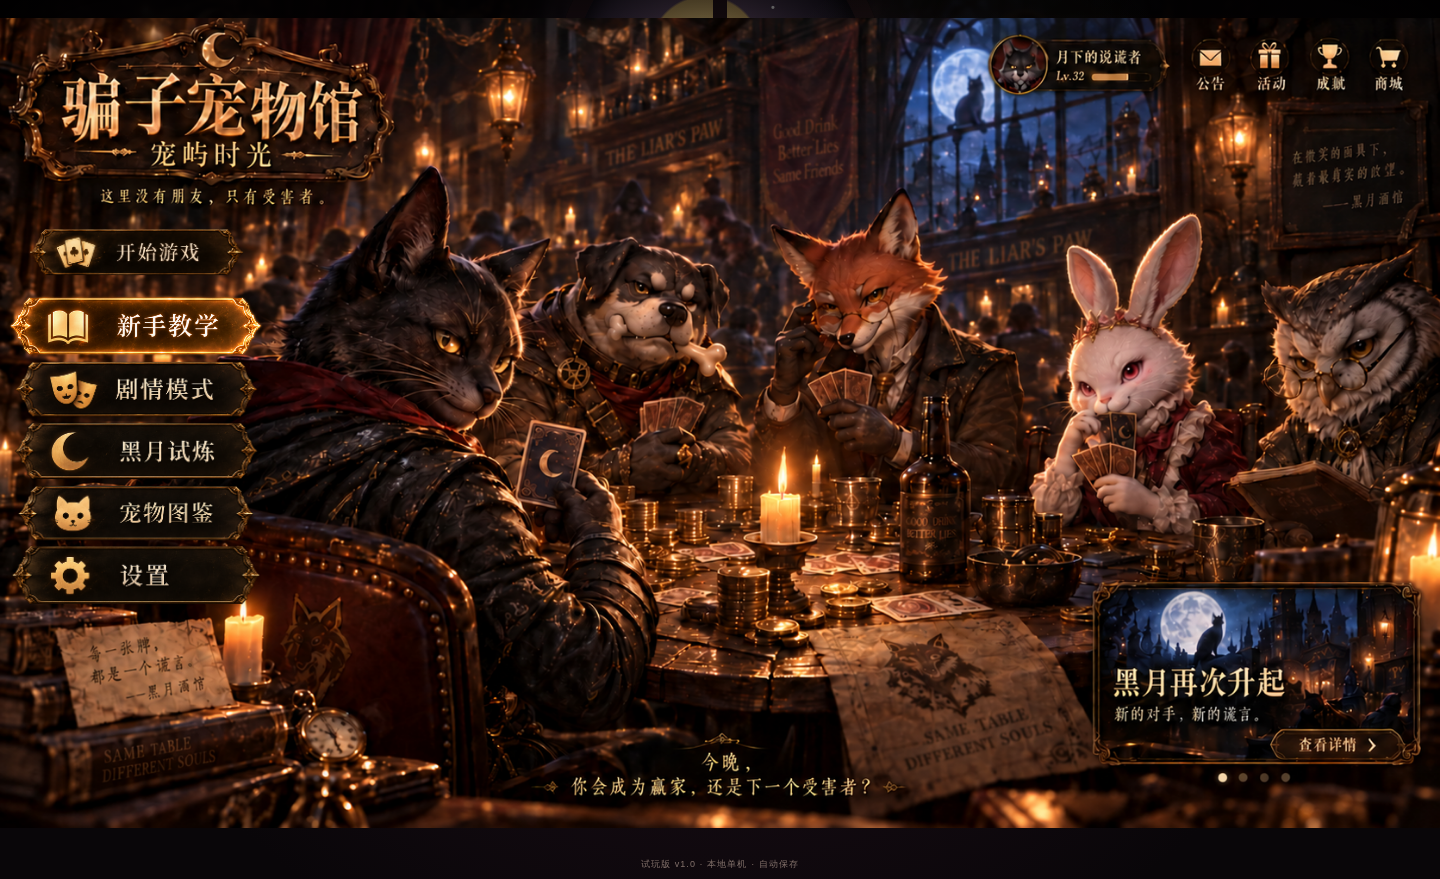
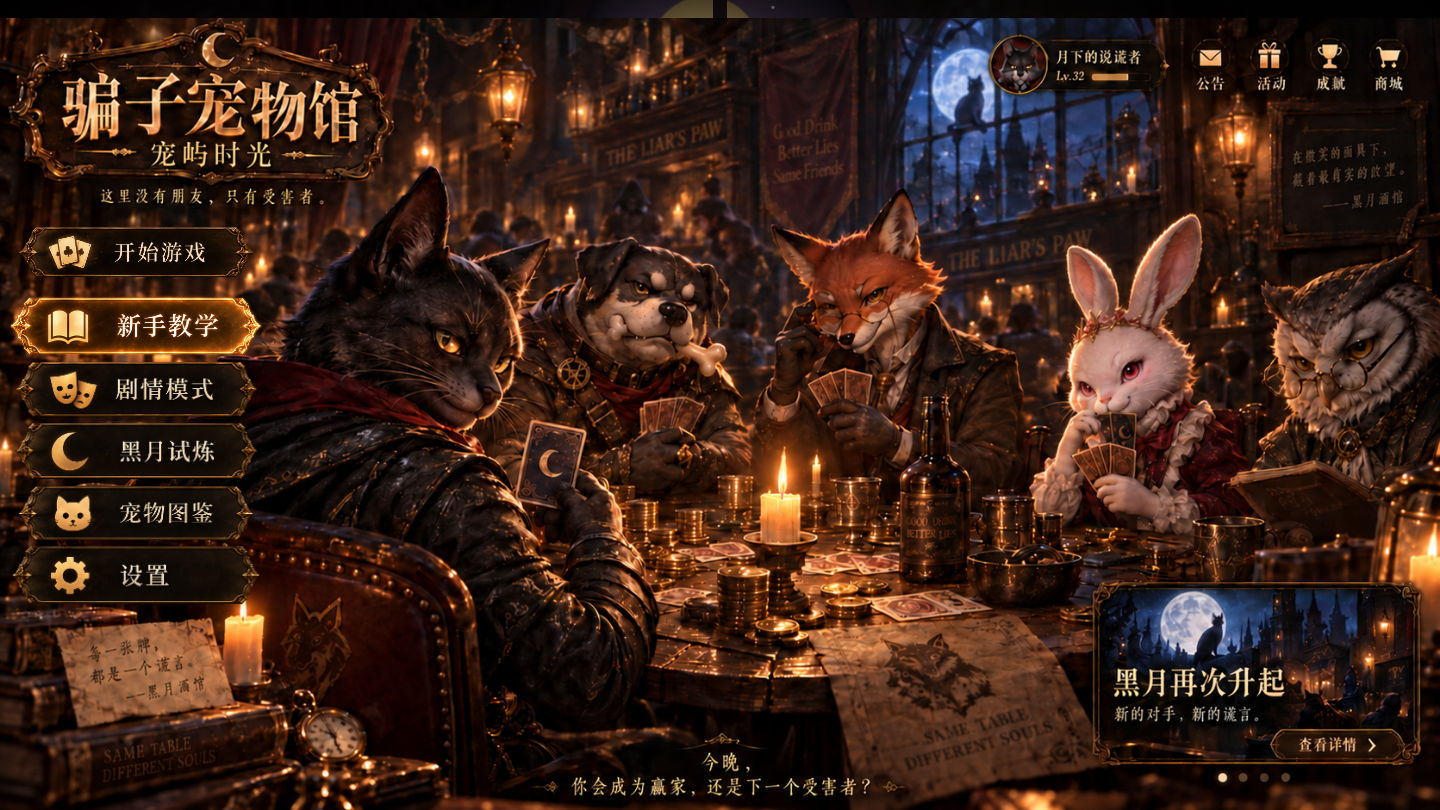
Optimize main menu button loading and sizing

diff --git a/tests/release-smoke.test.js b/tests/release-smoke.test.js
@@ -5,5 +5,6 @@ const context={document,localStorage:{getItem(){return null},setItem(){}},naviga
 const api=context.window.__BLACK_MOON__;assert(api,'缺少调试 API');assert.equal(api.PLAYERS.length,4);assert.deepEqual(Array.from(api.PLAYERS,x=>x.id),['shadow','fang','tail','snow'],'四个核心角色不正确');assert(api.PLAYERS.every(x=>x.art),'核心角色缺少正式立绘');assert.equal(api.CARDS.length,6);assert(api.CARDS.every(card=>card.rarity&&card.effect),'卡牌缺少稀有度或效果');assert.equal(api.AI.length,6);assert(api.PLAYERS.every(player=>player.tags.length===3&&player.quote),'角色性格资料不完整');assert(api.claimTrue([{id:'wild',wild:true},{id:'bone'}],'bone'));assert(api.freshState().rivals.every(rival=>rival.portrait),'可见对手不应回退为 emoji 占位');
 api.endIntro();assert.equal(typeof nodes.get('storyModeBtn').onclick,'function','剧情模式按钮不可点击');assert.equal(typeof nodes.get('trialBtn').onclick,'function','黑月试炼按钮不可点击');nodes.get('startBtn').onclick();assert.equal(nodes.get('characterGrid').children.length,4,'角色选择未渲染');nodes.get('confirmCharacterBtn').onclick();assert(nodes.get('hand').children.length>=5,'开局未发牌');assert.match(nodes.get('storyText').textContent,/旧钟街/,'开局剧情未显示');nodes.get('nextStoryBtn').onclick();assert.match(nodes.get('storyText').textContent,/三位对手/,'剧情推进失败');nodes.get('hand').children[0].onclick();nodes.get('skipMotionBtn').onclick();assert.match(nodes.get('motionLog').textContent,/快速结算/);
 const html=fs.readFileSync('index.html','utf8'),js=fs.readFileSync('game.js','utf8'),css=fs.readFileSync('styles.css','utf8');assert(html.includes('assets/references/main-menu-v2.png'),'主菜单未使用指定参考图路径');assert(/<section[^>]+id="menuScreen"[\s\S]*?<img class="menu-art" src="assets\/references\/main-menu-v2\.png"/.test(html),'主菜单未直接渲染指定参考图');assert(!/class="(?:menu-content|menu-cast|menu-scene)/.test(html),'主菜单仍包含旧视觉层');assert(['startBtn','rulesBtn','storyModeBtn','trialBtn','charactersBtn','settingsBtn'].every(id=>new RegExp(`<button class=\"menu-button-image\" id=\"${id}\" aria-label=\"[^\"]+\"><img class=\"menu-button-default\"[^>]+><img class=\"menu-button-highlight\"[^>]+><\\/button>`).test(html)),'主菜单语义化图片按钮不完整');assert(!/<video[^>]+muted/.test(html),'开场动画不应被强制静音');assert(js.includes('startMusic'),'缺少背景音乐启动与自动播放降级逻辑');assert(!/function playIntro\(\)[\s\S]*?startMusic\(\)[\s\S]*?function freshState/.test(js),'页面加载期间不应启动 AudioContext');assert(js.includes('els.skipIntroBtn.onclick=()=>{startMusic();endIntro();}'),'跳过动画没有初始化音频');assert(!/is-hovered|hover-border|active-menu/.test(js+css),'主菜单仍包含固定 hover 状态');assert(css.includes('.menu-button-image:hover .menu-button-default')&&css.includes('.menu-button-image:focus-visible .menu-button-highlight'),'按钮没有在 hover 与键盘 focus 时切换高亮图片');assert(css.includes('.menu-button-highlight{opacity:0}')&&css.includes('opacity:1'),'主菜单高亮图片显隐规则不完整');assert(!/\.menu-button-image:hover[^}]*?(?:border:[^0]|outline:[^0]|box-shadow:(?!none))/.test(css),'图片按钮 hover 出现矩形外框');assert.equal(Object.keys(api.MENU_BUTTON_ASSETS).length,6,'菜单按钮资源映射不完整');assert(html.includes('assets/battle/battle-screen.png'),'战斗界面未使用新背景路径');assert(js.includes("portrait:'assets/portraits/owl-chief.png'"),'剧情猫头鹰未使用新立绘');for(const scene of ['main-menu-v2.png','character-select.png','battle-screen.png','tavern-style.png'])assert(new RegExp(`<img[^>]+${scene.replace('.', '\\.')}[^>]*>`).test(html),`参考图未接入实际 DOM：${scene}`);const ids=[...html.matchAll(/id="([^"]+)"/g)].map(m=>m[1]);assert.equal(ids.length,new Set(ids).size,'HTML 存在重复 ID');
+for(const name of ['button-start-game','button-tutorial','button-story-mode','button-black-moon-trial','button-pet-gallery','button-settings'])for(const suffix of ['','-1'])assert(new RegExp(`<link rel="preload" href="assets/menu-buttons/${name}${suffix}\\.png" as="image"`).test(html),`菜单图片未预加载：${name}${suffix}.png`);assert(/\.menu-button-image\{[^}]*width:18\.55%;height:10\.95%/.test(css),'六个菜单按钮没有统一宽高');assert(/\.menu-button-image img\{[^}]*width:100%;height:100%;object-fit:contain/.test(css),'菜单图片没有保持比例');
 for(const asset of ['assets/references/main-menu-v2.png',...['button-start-game','button-tutorial','button-story-mode','button-black-moon-trial','button-pet-gallery','button-settings'].flatMap(name=>[`assets/menu-buttons/${name}.png`,`assets/menu-buttons/${name}-1.png`]),'assets/battle/battle-screen.png','assets/portraits/owl-chief.png','assets/portraits/full/shadow.png','assets/portraits/full/fang.png','assets/portraits/full/tail.png','assets/portraits/full/snow.png','assets/icon.svg','assets/intro/opening.mp4','assets/portraits/black-cat.svg','assets/portraits/crow.svg','assets/portraits/fox.svg','assets/portraits/rabbit.svg'])assert(fs.existsSync(asset),`缺少 ${asset}`);
 console.log('完整流程冒烟通过：开场跳过 → 主菜单 → 角色选择 → 发牌 → 动画跳过');

diff --git a/index.html b/index.html
@@ -10,7 +10,19 @@
   <title>骗子宠物馆：黑月酒桌</title>
   <link rel="icon" href="assets/icon.svg" type="image/svg+xml">
   <link rel="manifest" href="manifest.webmanifest">
-  <link rel="preload" href="assets/references/main-menu-v2.png" as="image" type="image/png">
+  <link rel="preload" href="assets/menu-buttons/button-start-game.png" as="image" type="image/png" fetchpriority="high">
+  <link rel="preload" href="assets/menu-buttons/button-tutorial.png" as="image" type="image/png" fetchpriority="high">
+  <link rel="preload" href="assets/menu-buttons/button-story-mode.png" as="image" type="image/png" fetchpriority="high">
+  <link rel="preload" href="assets/menu-buttons/button-black-moon-trial.png" as="image" type="image/png" fetchpriority="high">
+  <link rel="preload" href="assets/menu-buttons/button-pet-gallery.png" as="image" type="image/png" fetchpriority="high">
+  <link rel="preload" href="assets/menu-buttons/button-settings.png" as="image" type="image/png" fetchpriority="high">
+  <link rel="preload" href="assets/references/main-menu-v2.png" as="image" type="image/png" fetchpriority="high">
+  <link rel="preload" href="assets/menu-buttons/button-start-game-1.png" as="image" type="image/png">
+  <link rel="preload" href="assets/menu-buttons/button-tutorial-1.png" as="image" type="image/png">
+  <link rel="preload" href="assets/menu-buttons/button-story-mode-1.png" as="image" type="image/png">
+  <link rel="preload" href="assets/menu-buttons/button-black-moon-trial-1.png" as="image" type="image/png">
+  <link rel="preload" href="assets/menu-buttons/button-pet-gallery-1.png" as="image" type="image/png">
+  <link rel="preload" href="assets/menu-buttons/button-settings-1.png" as="image" type="image/png">
   <link rel="preload" href="assets/portraits/full/shadow.png" as="image" type="image/png">
   <link rel="stylesheet" href="styles.css">
 </head>
@@ -31,9 +43,9 @@
   </div>
   <main class="game-shell" id="gameApp">
     <section class="hero screen" id="menuScreen">
-      <img class="menu-art" src="assets/references/main-menu-v2.png" alt="骗子宠物馆主菜单，夜影、铁牙、红尾、雪球与鸮策围坐在黑月酒桌前">
+      <img class="menu-art" src="assets/references/main-menu-v2.png" alt="骗子宠物馆主菜单，夜影、铁牙、红尾、雪球与鸮策围坐在黑月酒桌前" decoding="async" fetchpriority="high">
       <nav class="menu-actions menu-hitboxes" aria-label="主菜单">
-        <button class="menu-button-image" id="startBtn" aria-label="开始游戏"><img class="menu-button-default" src="assets/menu-buttons/button-start-game.png" alt=""><img class="menu-button-highlight" src="assets/menu-buttons/button-start-game-1.png" alt=""></button>
+        <button class="menu-button-image" id="startBtn" aria-label="开始游戏"><img class="menu-button-default" src="assets/menu-buttons/button-start-game.png" alt="" decoding="async" fetchpriority="high"><img class="menu-button-highlight" src="assets/menu-buttons/button-start-game-1.png" alt="" decoding="async"></button>
         <button class="menu-button-image" id="rulesBtn" aria-label="新手教学"><img class="menu-button-default" src="assets/menu-buttons/button-tutorial.png" alt=""><img class="menu-button-highlight" src="assets/menu-buttons/button-tutorial-1.png" alt=""></button>
         <button class="menu-button-image" id="storyModeBtn" aria-label="剧情模式"><img class="menu-button-default" src="assets/menu-buttons/button-story-mode.png" alt=""><img class="menu-button-highlight" src="assets/menu-buttons/button-story-mode-1.png" alt=""></button>
         <button class="menu-button-image" id="trialBtn" aria-label="黑月试炼"><img class="menu-button-default" src="assets/menu-buttons/button-black-moon-trial.png" alt=""><img class="menu-button-highlight" src="assets/menu-buttons/button-black-moon-trial-1.png" alt=""></button>

diff --git a/sw.js b/sw.js
@@ -1,4 +1,4 @@
-const CACHE = 'black-moon-demo-v17';
+const CACHE = 'black-moon-demo-v18';
 const ASSETS = ['./','./index.html','./styles.css','./game.js','./manifest.webmanifest','./assets/icon.svg','./assets/portraits/black-cat.svg','./assets/portraits/crow.svg','./assets/portraits/fox.svg','./assets/portraits/rabbit.svg','./assets/portraits/full/shadow.png','./assets/portraits/full/fang.png','./assets/portraits/full/tail.png','./assets/portraits/full/snow.png','./assets/references/tavern-style.png','./assets/references/main-menu.png','./assets/main-menu/background.png','./assets/references/main-menu-v2.png','./assets/menu-buttons/button-start-game.png','./assets/menu-buttons/button-start-game-1.png','./assets/menu-buttons/button-tutorial.png','./assets/menu-buttons/button-tutorial-1.png','./assets/menu-buttons/button-story-mode.png','./assets/menu-buttons/button-story-mode-1.png','./assets/menu-buttons/button-black-moon-trial.png','./assets/menu-buttons/button-black-moon-trial-1.png','./assets/menu-buttons/button-pet-gallery.png','./assets/menu-buttons/button-pet-gallery-1.png','./assets/menu-buttons/button-settings.png','./assets/menu-buttons/button-settings-1.png','./assets/portraits/owl-chief.png','./assets/references/character-select.png','./assets/battle/battle-screen.png'];
 self.addEventListener('install', event => event.waitUntil(caches.open(CACHE).then(cache => cache.addAll(ASSETS)).then(() => self.skipWaiting())));
 self.addEventListener('activate', event => event.waitUntil(caches.keys().then(keys => Promise.all(keys.filter(key => key !== CACHE).map(key => caches.delete(key)))).then(() => self.clients.claim())));

diff --git a/styles.css b/styles.css
@@ -80,6 +80,7 @@ button,.screen,.topbar,.opponent,.speech,.player-strip,.hand-area,.controls,.ite
 #menuScreen .menu-hitboxes{position:absolute;z-index:2;left:50%;top:50%;display:block;width:max(100vw,177.58svh);height:max(56.31vw,100svh);margin:0;translate:-50% -50%;pointer-events:none}
 #menuScreen .menu-button-image{position:absolute;display:block;width:18.55%;height:10.95%;min-height:0;margin:0;padding:0;border:0;border-image:none;border-radius:0;outline:0;background:none;box-shadow:none;pointer-events:auto;cursor:pointer;transition:transform .2s ease;transform-origin:center}
 #menuScreen .menu-button-image img{position:absolute;inset:0;display:block;width:100%;height:100%;object-fit:contain;pointer-events:none;transition:opacity .16s ease}
+#menuScreen #startBtn img{inset:-4.7%;width:109.4%;height:109.4%}
 #menuScreen .menu-button-highlight{opacity:0}
 #menuScreen .menu-button-image:hover,#menuScreen .menu-button-image:focus-visible{transform:scale(1.03);filter:none;border:0;outline:0;box-shadow:none}
 #menuScreen .menu-button-image:hover .menu-button-default,#menuScreen .menu-button-image:focus-visible .menu-button-default{opacity:0}
